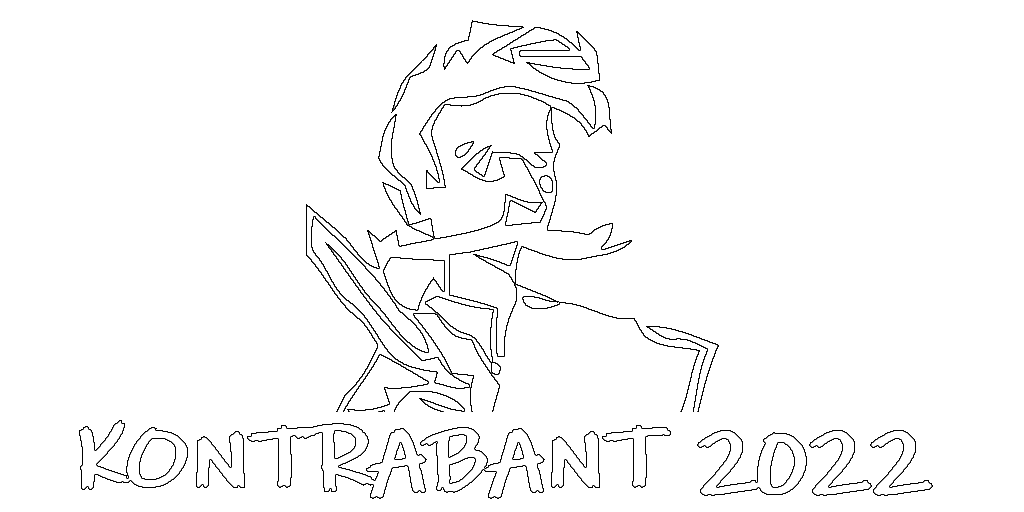
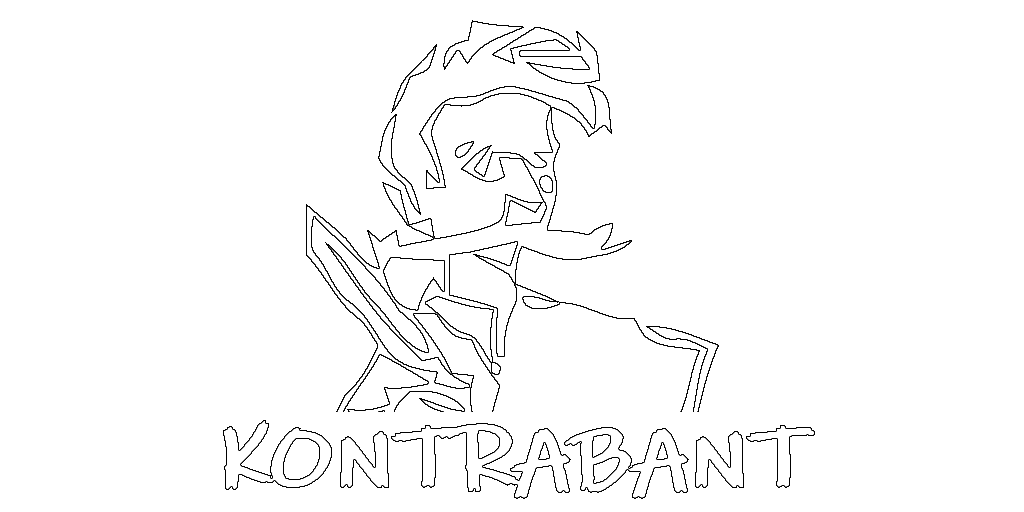
Fix images, update README.md.

diff --git a/src/kontra2/platform/gex.c b/src/kontra2/platform/gex.c
@@ -12,14 +12,12 @@
 #include <platform/gex.h>
 #include <stdio.h>
 
-#define GEX_INDEX_LEN   128
-
 void * gex_query_image(uint8_t location) {
     for(uint8_t i=0;i<NUMIMAGES;i++) {
         if (images[i].location==location) {
             /* load image and return ptr to it */
             uint16_t len=IMG_SIZE-1;
-            return fload(images[i].name, NULL, images[i].offset + GEX_INDEX_LEN, &len);
+            return fload(images[i].name, NULL, images[i].offset, &len);
         }
     }
     return NULL; /* not found! */

diff --git a/README.md b/README.md
@@ -4,6 +4,8 @@
 
 This repository contains the Quill adventures ports for the Iskra Delta Partner: Kontrabant, Kontrabant II., and Eurorun.
 
+![Kontrabant 2022](docs/img/kintro.png)
+
 ## Compiling
 
 *To compile, you will need a Linux machine with the latest version of the SDCC suite.*
@@ -13,6 +15,30 @@ This repository uses submodules. When you clone it, don't forget to add the `--r
 Use `make` to compile all games. 
 
 Afterwards, you can find the disk image in the `bin/` directory and the `*.com` files in the `build/` directory.
+
+# Screenshots & Solutions
+
+## Kontrabant II.
+
+Kontrabant II. - [the solution.](docs/kontrabant2-resitev.txt)
+
+![Kontrabant 2022](docs/img/kontra2-jugozaver.JPG)
+
+![Kontrabant 2022](docs/img/kontra2-stonehedge.JPG)
+
+![Kontrabant 2022](docs/img/kontra2-rim.JPG)
+
+![Kontrabant 2022](docs/img/kontra2-emona.JPG)
+
+![Kontrabant 2022](docs/img/kontra2-2000.JPG)
+
+## Kontrabant I.
+
+![Kontrabant 2022](docs/img/kontra1.JPG)
+
+## Eurorun
+
+![Kontrabant 2022](docs/img/eurorun.JPG)
 
 [language.url]:   https://en.wikipedia.org/wiki/ANSI_C
 [language.badge]: https://img.shields.io/badge/language-C-blue.svg
